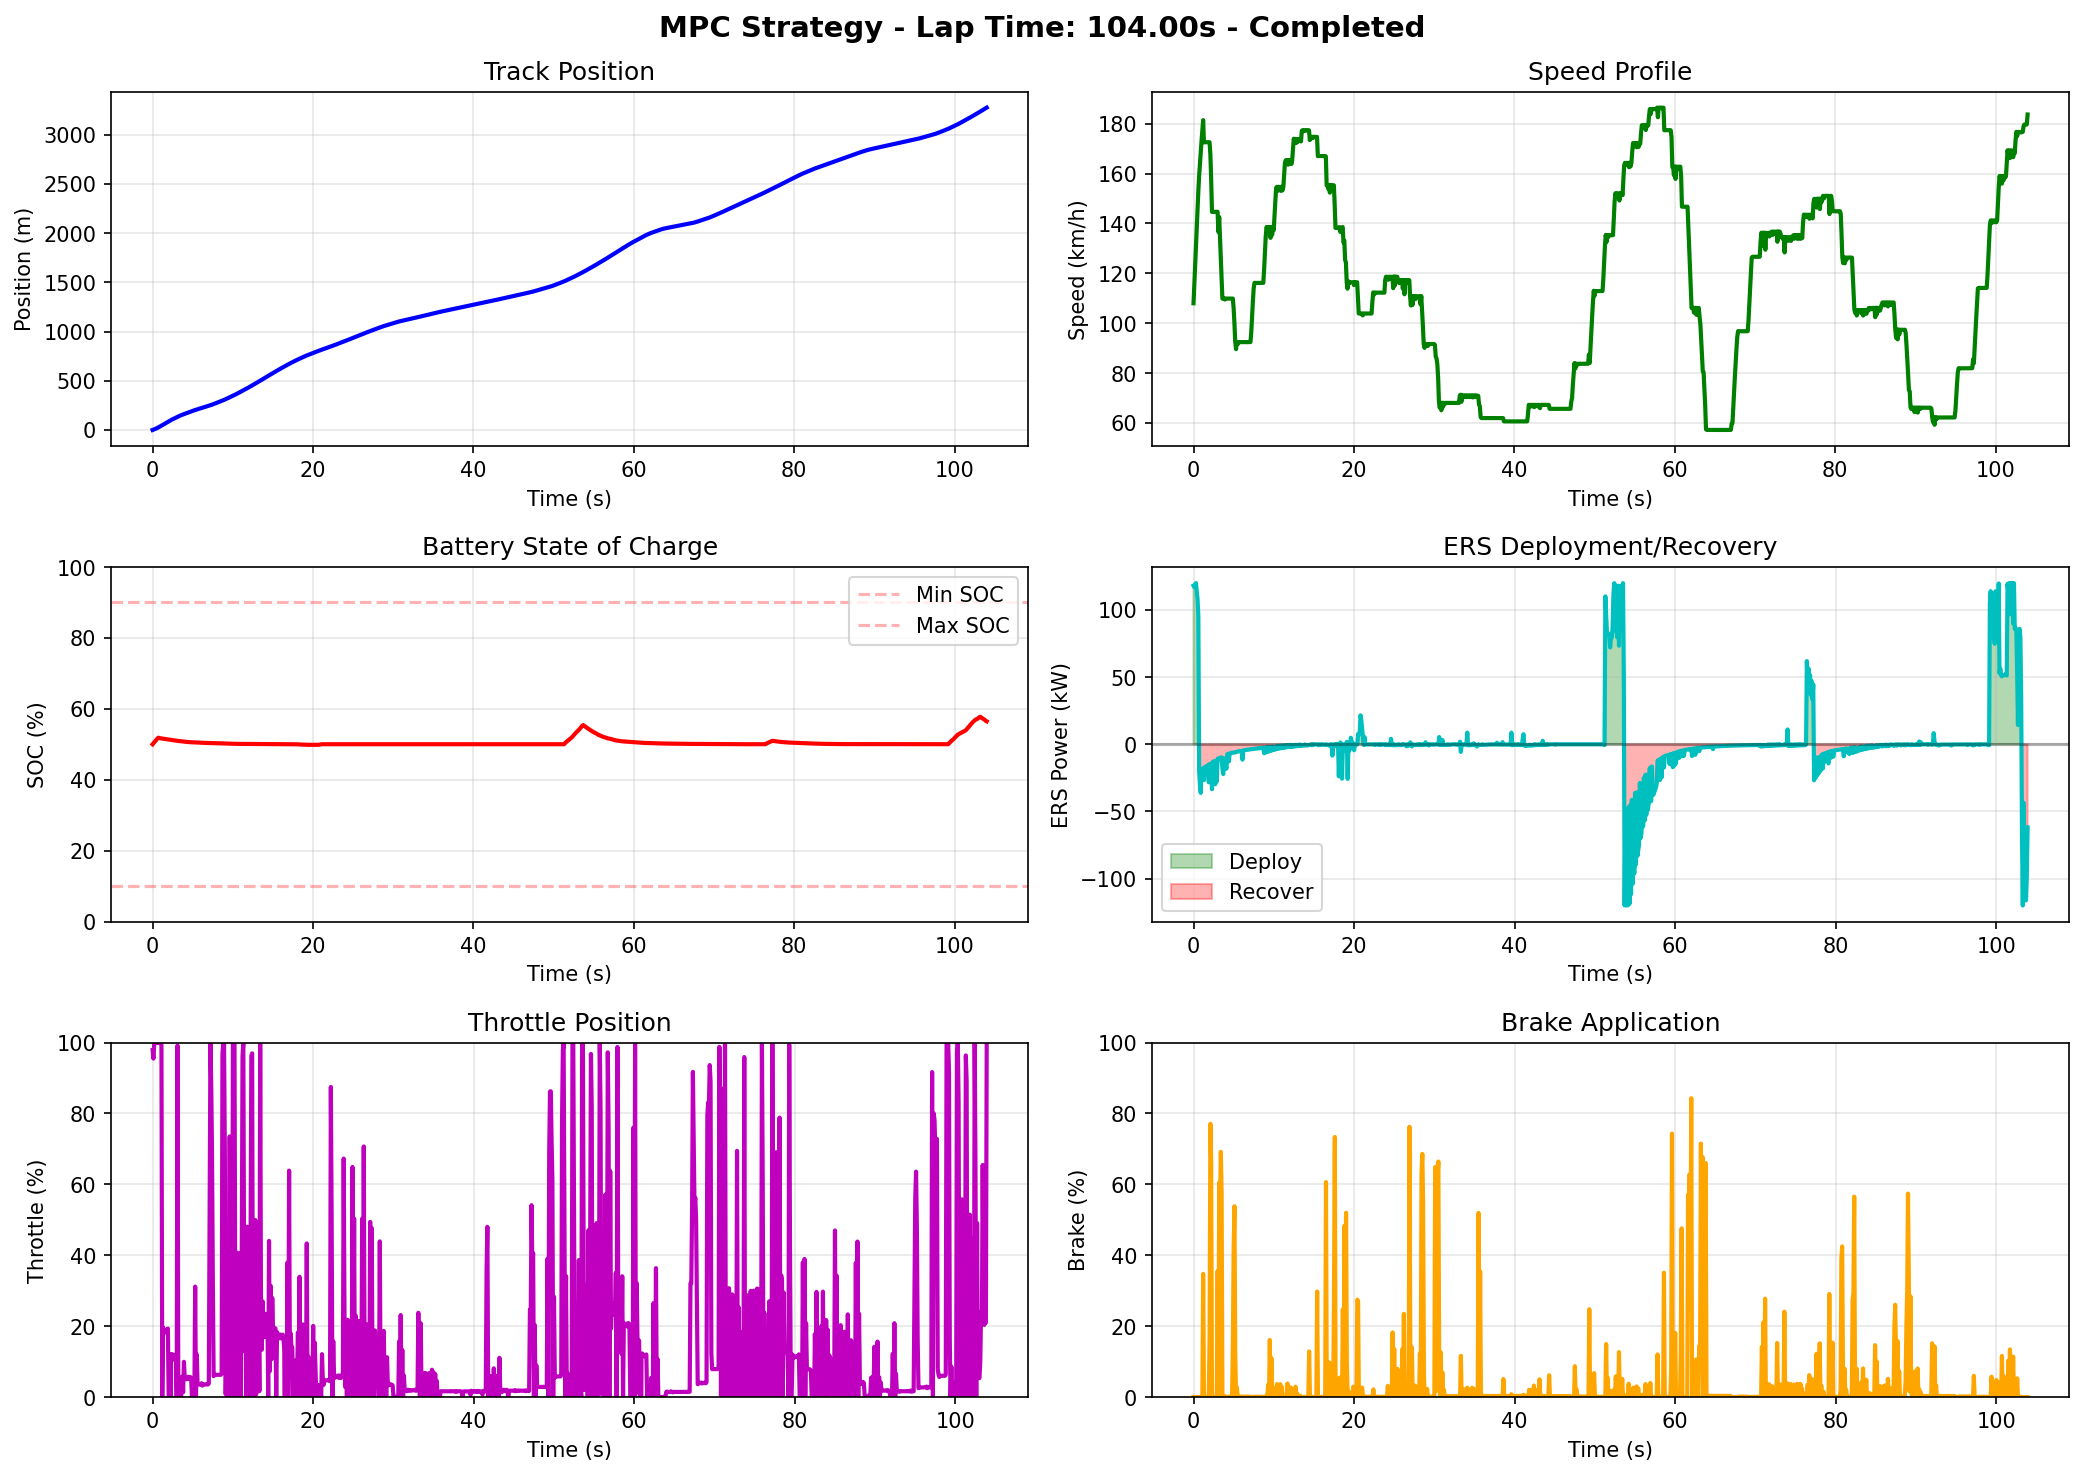
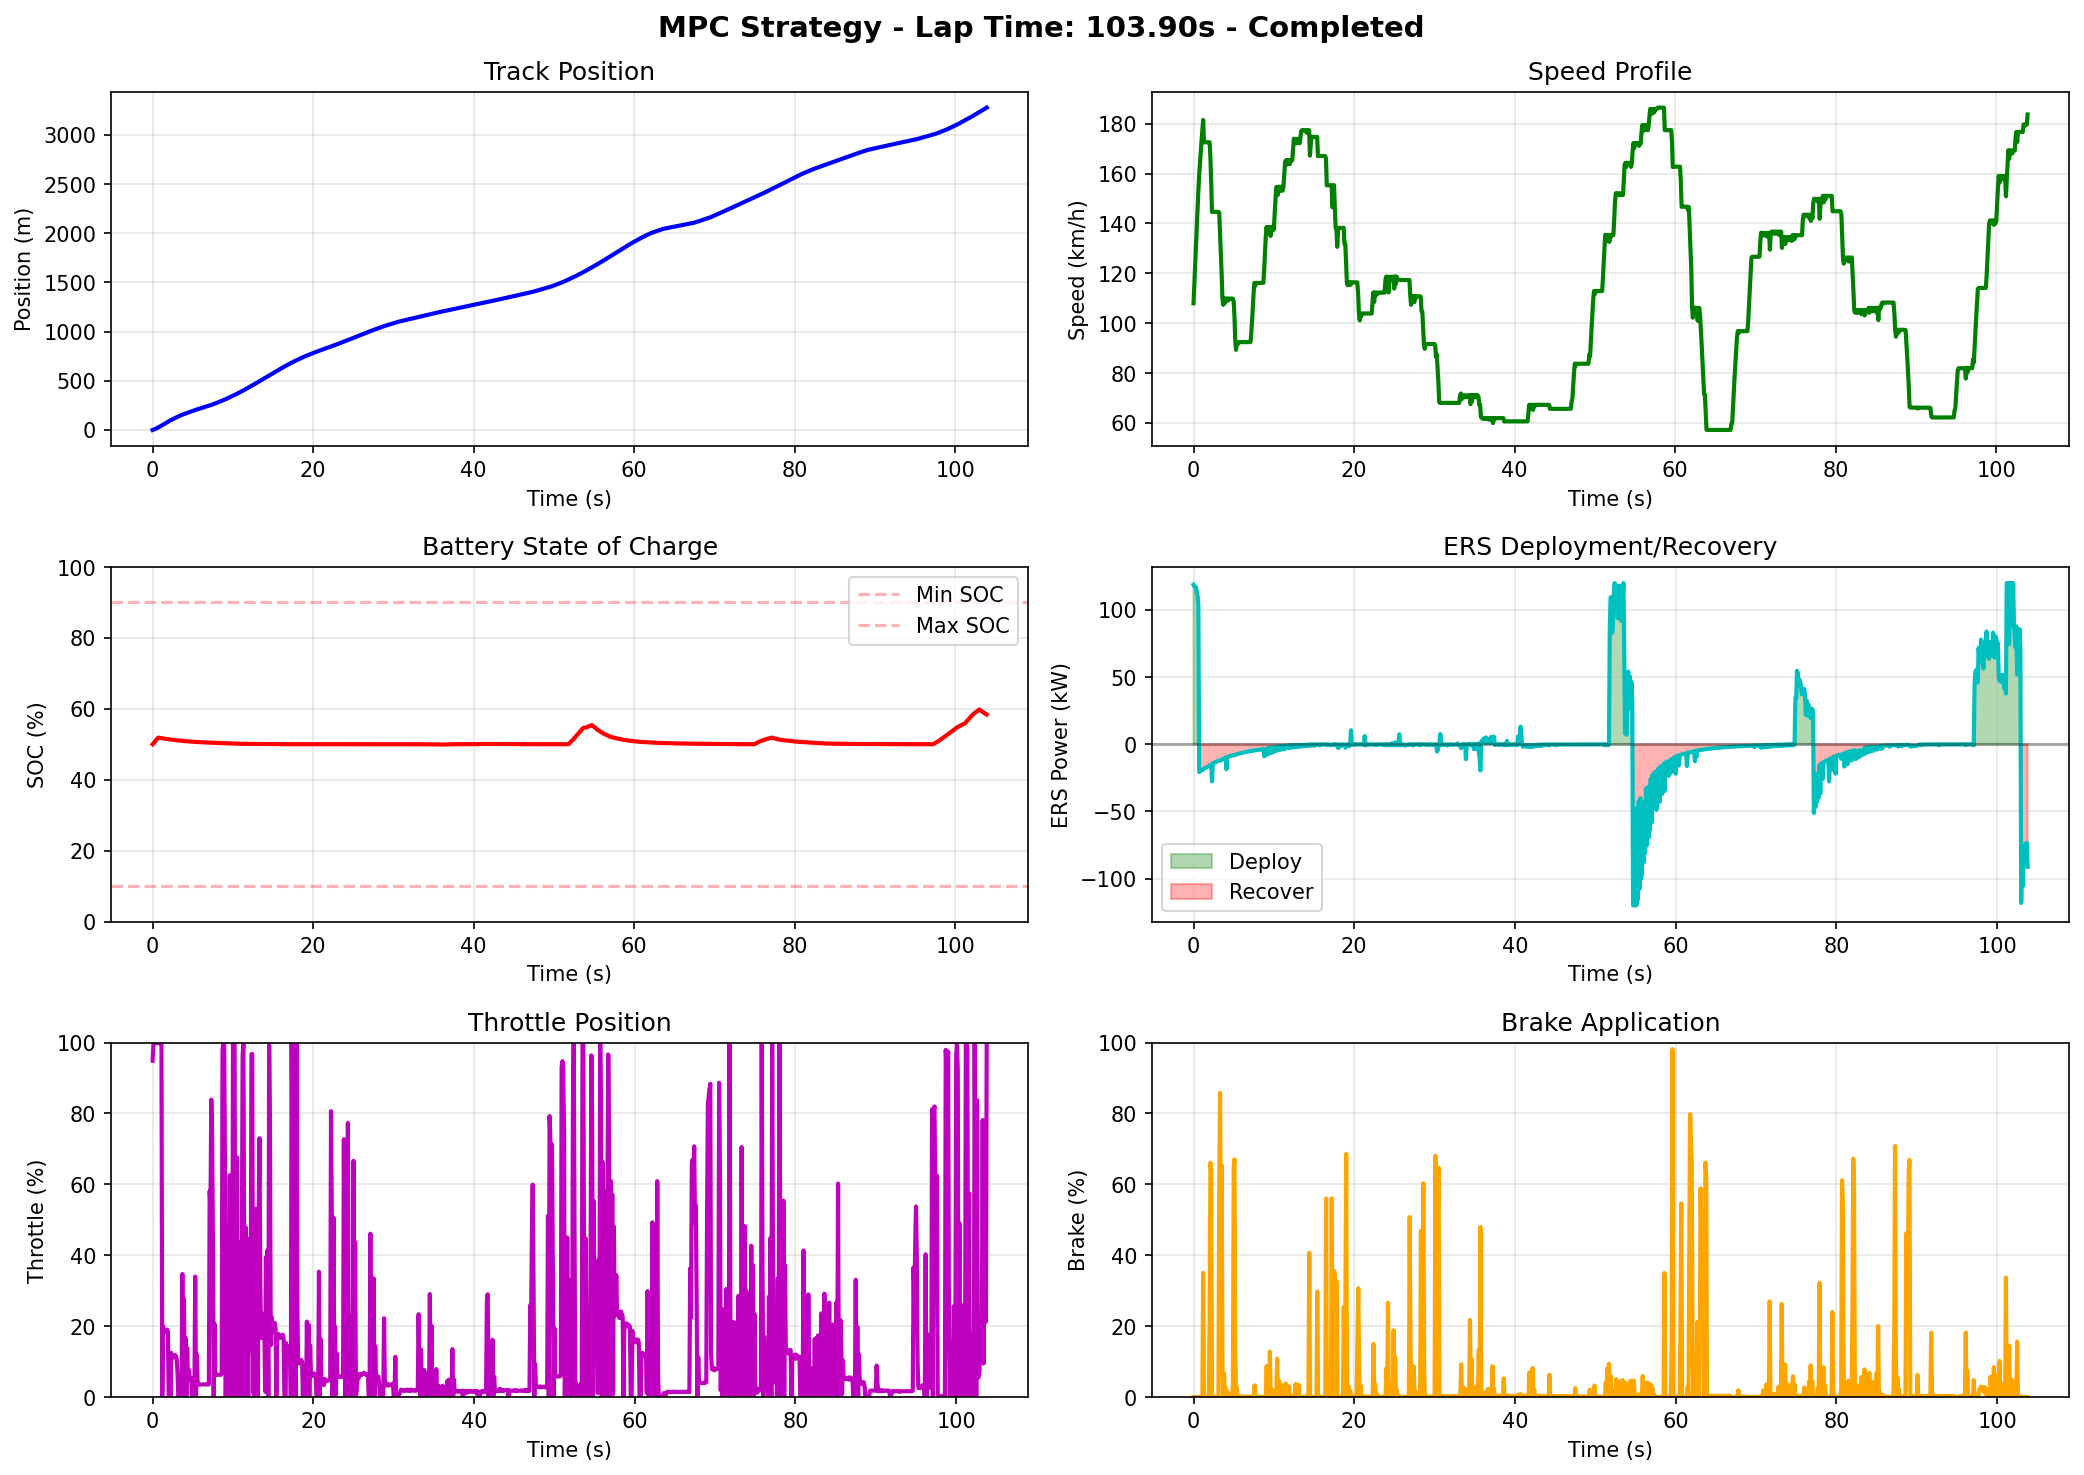
slight objective change

diff --git a/controllers/mpc.py b/controllers/mpc.py
@@ -11,7 +11,7 @@ class ERSOptimalController:
     
     def __init__(self, vehicle_model: VehicleDynamicsModel, 
                  track_model: F1TrackModel,
-                 horizon_time: float = 3.0,
+                 horizon_time: float = 5.0,
                  dt: float = 0.1):
         self.vehicle_model = vehicle_model
         self.track_model = track_model
@@ -31,6 +31,8 @@ class ERSOptimalController:
         # 1. Get dynamics and basic constraints
         self.dynamics_func = self.vehicle_model.create_casadi_function()
         constraints = self.vehicle_model.get_constraints()
+        
+        self.soc_target_param = self.opti.parameter(self.N)
         
         # 2. Decision variables
         X = self.opti.variable(3, self.N+1)  # States: [pos, vel, soc]
@@ -60,7 +62,7 @@ class ERSOptimalController:
             # Instead of a hard target of 0.5, we penalize being empty
             # and gently encourage staying in the middle.
             # This allows the car to use energy when needed.
-            soc_deviation = (X[2, k] - 0.5)
+            soc_deviation = (X[2, k] - self.soc_target_param[k]) 
             obj += W_energy_diff * soc_deviation**2
             
             # --- Cost: Smoothness ---
@@ -118,7 +120,7 @@ class ERSOptimalController:
         
         # 6. Solver Settings
         opts = {
-            'ipopt.max_iter': 500,
+            'ipopt.max_iter': 250,
             'ipopt.print_level': 0,
             'print_time': 0,
             'ipopt.acceptable_tol': 1e-4,
@@ -133,9 +135,13 @@ class ERSOptimalController:
         self.U = U
         self.x0_param = x0
         self.track_params = track_params
+        self.soc_target_param = self.soc_target_param
           
-    def solve_mpc_step(self, current_state: np.ndarray, 
-                       track_position: float) -> Tuple[np.ndarray, Dict]:
+    def solve_mpc_step(self, 
+                       current_state: np.ndarray, 
+                       track_position: float,
+                       soc_reference_trajectory: np.ndarray = None
+                       ) -> Tuple[np.ndarray, Dict]:
         """Solve one MPC iteration"""
         # Set current state
         self.opti.set_value(self.x0_param, current_state)
@@ -143,6 +149,16 @@ class ERSOptimalController:
         # Set track parameters for horizon
         track_data = self._get_track_preview(track_position, current_state[1])
         self.opti.set_value(self.track_params, track_data)
+        
+        if soc_reference_trajectory is not None:
+            if len(soc_reference_trajectory) != self.N:
+                ref = np.resize(soc_reference_trajectory, self.N)
+            else:
+                ref = soc_reference_trajectory
+            
+            self.opti.set_value(self.soc_target_param, ref)
+        else:
+            self.opti.set_value(self.soc_target_param, np.full(self.N, 0.5))
         
         # Warm start from previous solution if available
         if self.solution is not None:
